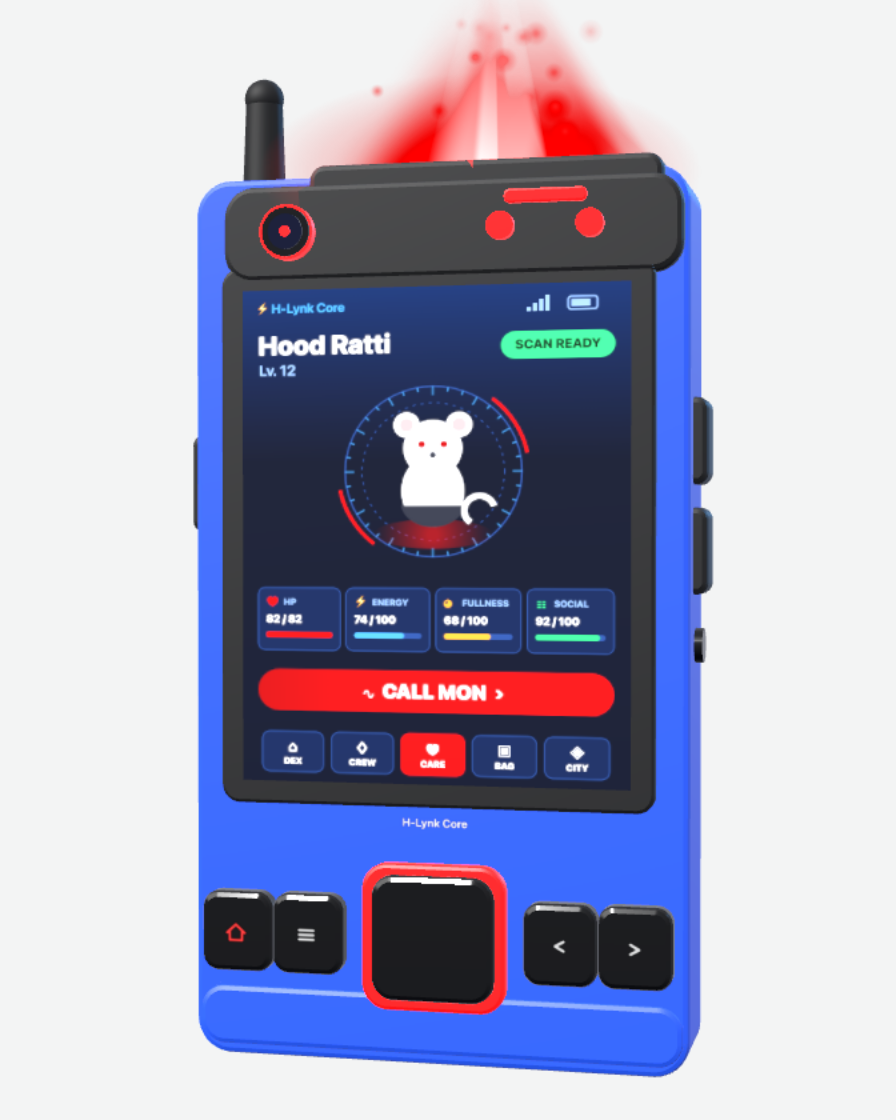
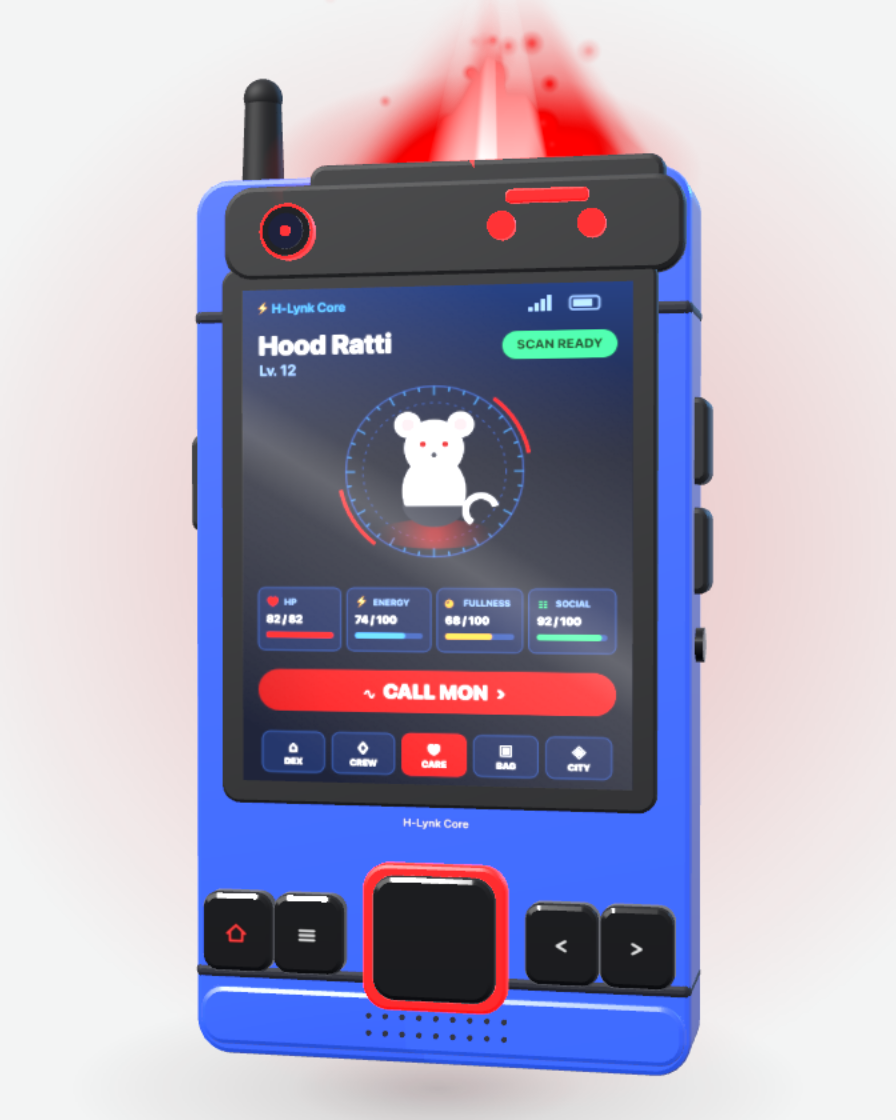
feat(web): premium finish pass on the H-Lynk device
- MeshPhysicalMaterial clearcoat shell — moulded gloss, not flat plastic
- Hairline shell seams, drilled speaker grille on the chin
- Soft contact shadow grounds the unit; cool halo behind it
- Diagonal glare streak across the screen glass

Generated with [Devin](https://devin.ai)

diff --git a/apps/web/components/home/device-scene.ts b/apps/web/components/home/device-scene.ts
@@ -171,11 +171,16 @@ function buildDevice(THREE: Three): {
   /** Fine plastic grain: the shell isn't a render-flat surface up close. */
   const grain = tex(grainTexture(THREE));
 
-  /** Matte red shell: plastic sheen from the room env, no metal. */
-  const body = mat(new THREE.MeshStandardMaterial({
+  /** Matte shell with a clearcoat skin: injected-moulded gloss, not flat plastic. */
+  const body = mat(new THREE.MeshPhysicalMaterial({
     // Blue shell variant — the token stays red for canon elsewhere.
-    color: '#1D4ED8', roughness: 0.42, metalness: 0.04, envMapIntensity: 0.7,
+    color: '#1D4ED8', roughness: 0.38, metalness: 0.05, envMapIntensity: 0.9,
+    clearcoat: 0.7, clearcoatRoughness: 0.32,
     bumpMap: grain, bumpScale: 0.0015,
+  }));
+  /** Shell seam: the fine groove where the two shell halves meet. */
+  const groove = mat(new THREE.MeshStandardMaterial({
+    color: '#0B0F1E', roughness: 0.7, metalness: 0.1, envMapIntensity: 0.15,
   }));
   /** Black rubberised trim: head, bezel, keys — softer reflections. */
   const black = mat(new THREE.MeshStandardMaterial({
@@ -264,6 +269,19 @@ function buildDevice(THREE: Three): {
   box(rounded(W, H, D, 0.06), body, 0, 0, 0);
   // Chin under the control row: the slight lower bumper of the reference.
   box(rounded(W * 0.98, 0.1, D + 0.015, 0.04), body, 0, -top + 0.07, 0);
+  // Shell seams: hairline grooves where the front and back halves meet,
+  // just under the head and above the chin.
+  box(rounded(W * 1.004, 0.01, D + 0.006, 0.004), groove, 0, 0.62, 0);
+  box(rounded(W * 1.002, 0.008, D + 0.006, 0.003), groove, 0, -top + 0.16, 0);
+  // Speaker grille on the chin: a 9×2 field of drilled pinholes.
+  for (let i = 0; i < 9; i++) {
+    for (let j = 0; j < 2; j++) {
+      const hole = new THREE.Mesh(track(new THREE.CylinderGeometry(0.006, 0.006, 0.004, 10)), groove);
+      hole.rotation.x = Math.PI / 2;
+      hole.position.set(-0.14 + i * 0.035, -top + 0.05 + j * 0.035, front + 0.012);
+      group.add(hole);
+    }
+  }
 
   // --- scanner head --------------------------------------------------------
 
@@ -357,6 +375,34 @@ function buildDevice(THREE: Three): {
   // Left edge: the long action key — the push-to-talk button.
   const ptt = box(rounded(0.032, 0.18, 0.1, 0.012), black, -W / 2 - 0.014, 0.28, 0);
   ptt.userData.restX = ptt.position.x;
+
+  // Studio finishing: a soft contact shadow under the unit, a faint cool
+  // halo behind it, and a diagonal glare streak across the screen glass.
+  const shadow = new THREE.Sprite(mat(new THREE.SpriteMaterial({
+    map: tex(radialGlowTexture(THREE)), color: '#1A1F33', transparent: true,
+    opacity: 0.28, depthWrite: false,
+  })));
+  shadow.scale.set(1.5, 0.42, 1);
+  shadow.position.set(0, -top - 0.06, 0.1);
+  group.add(shadow);
+
+  const halo = new THREE.Sprite(mat(new THREE.SpriteMaterial({
+    map: tex(radialGlowTexture(THREE)), color: '#C7D4F0', transparent: true,
+    opacity: 0.4, depthWrite: false,
+  })));
+  halo.scale.set(2.6, 2.6, 1);
+  halo.position.set(0, 0.15, -0.45);
+  group.add(halo);
+
+  const glare = new THREE.Mesh(
+    track(new THREE.PlaneGeometry(0.8, 1.0)),
+    mat(new THREE.MeshBasicMaterial({
+      map: tex(glareTexture(THREE)), transparent: true, opacity: 0.55,
+      depthWrite: false, blending: THREE.AdditiveBlending,
+    })),
+  );
+  glare.position.set(0, screenY, front + 0.033);
+  group.add(glare);
 
   group.position.y = -0.15;
   return { group, screen: screenMesh, setHover: hud.setHover, setTab: hud.setTab, ptt, beamTick: beam.tick };
@@ -572,6 +618,23 @@ function beamGradientTexture(THREE: Three): CanvasTexture {
     }
   }
   ctx.putImageData(img, 0, 0);
+  return makeCanvasTexture(THREE, canvas);
+}
+
+/**
+ * A soft diagonal light streak for the screen glass — one angled band,
+ * soft both sides, the studio window catching the display.
+ */
+function glareTexture(THREE: Three): CanvasTexture {
+  const [canvas, ctx] = canvas2d(256, 320);
+  const grad = ctx.createLinearGradient(30, 300, 200, 20);
+  grad.addColorStop(0, 'rgba(255,255,255,0)');
+  grad.addColorStop(0.42, 'rgba(255,255,255,0.10)');
+  grad.addColorStop(0.5, 'rgba(255,255,255,0.22)');
+  grad.addColorStop(0.58, 'rgba(255,255,255,0.10)');
+  grad.addColorStop(1, 'rgba(255,255,255,0)');
+  ctx.fillStyle = grad;
+  ctx.fillRect(0, 0, 256, 320);
   return makeCanvasTexture(THREE, canvas);
 }
 
